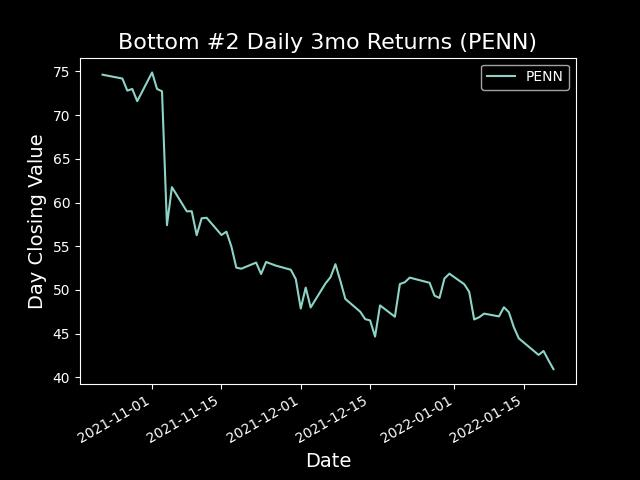
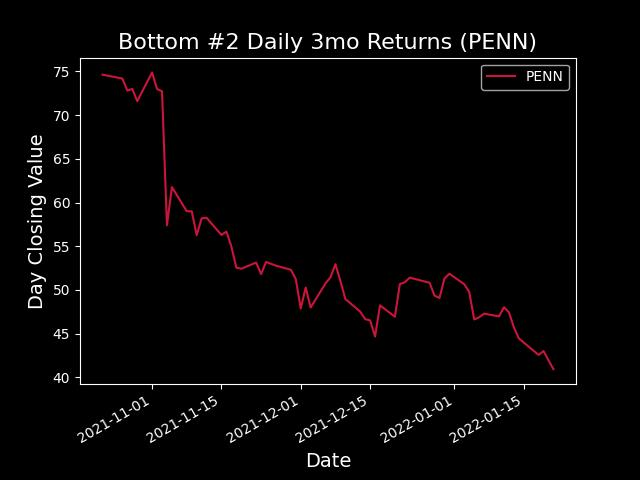
updated graphs

Changed region(s): [[0.1562, 0.1562, 0.625, 0.7188], [0.625, 0.5625, 0.875, 0.7812], [0.75, 0.1562, 0.8125, 0.1875]]

diff --git a/garrett/makeGraphs.py b/garrett/makeGraphs.py
@@ -36,7 +36,7 @@ if __name__ == '__main__':
     
     for i, ticker in enumerate(top):
         plt.clf()
-        sp_500_yf_df[ticker].plot()
+        sp_500_yf_df[ticker].plot(color='#6ad879')
         plt.legend()
         plt.title("Top #{i} Daily {span} Returns ({ticker})".format(i=i+1, span=span, ticker=ticker), fontsize=16)
         plt.ylabel('Cumulative Stock Returns', fontsize=14)
@@ -46,11 +46,11 @@ if __name__ == '__main__':
         plt.savefig('mysite\static\image\\topStock{i}.jpg'.format(i=i+1))
     for i, ticker in enumerate(bottom):
         plt.clf()
-        sp_500_yf_df[ticker].plot()
+        sp_500_yf_df[ticker].plot(color='#cd143c')
         plt.legend()
         plt.title("Bottom #{i} Daily {span} Returns ({ticker})".format(i=i+1, span=span, ticker=ticker), fontsize=16)
         plt.ylabel('Day Closing Value', fontsize=14)
         plt.xlabel('Date', fontsize=14)
 
-    plt.grid(which="major", color='k', linestyle='-.', linewidth=0.5)
-    plt.savefig('mysite\static\image\\bottomStock{i}.jpg'.format(i=i+1))
+        plt.grid(which="major", color='k', linestyle='-.', linewidth=0.5)
+        plt.savefig('mysite\static\image\\bottomStock{i}.jpg'.format(i=i+1))
